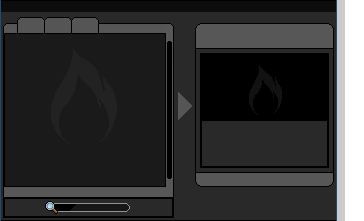
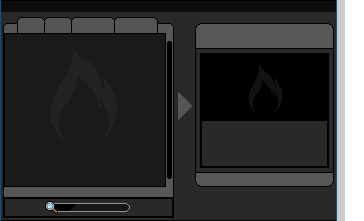
Use 2 tabs to be better (#3)
* Updating the readme

* Adding in smelt asset

* Adding in a coalesce asset

* rendering the images

* Removing the liquid tab icon

* Adding in an asset for the furnacebody

* rendering the furnacebody

* adding in wider button renders

* Make two buttons now

Changed region(s): [[0.2418, 0.0543, 0.4533, 0.1086]]

diff --git a/README.md b/README.md
@@ -1,7 +1,10 @@
 # Starbound-bardez-furnace-liquids
 
-This repo is a mod for [Starbound](https://playstarbound.com/), based on top of the following mods:
-- [Frackin' Universe](https://steamcommunity.com/sharedfiles/filedetails/?id=729480149) 
+This repo is a mod for [Starbound](https://playstarbound.com/). It is a useless supplement on its own, but a utility intended to extend the following mods:
+- [mORE Liquids](https://steamcommunity.com/sharedfiles/filedetails/?id=1318339314)
+- [Vanilla mORE liquids](https://steamcommunity.com/sharedfiles/filedetails/?id=2892477151)
+- [Frackin' Universe](https://steamcommunity.com/sharedfiles/filedetails/?id=729480149)
 
 This mod does the following:
-- [ ] Adds a tab to the atomic furnace for molten liquids to and from their solid states
+- [ ] Adds a tab to the atomic furnace for smelting molten liquids from bars
+- [ ] Adds a tab to the atomic furnace for coalescing molten liquids to their refined bars
